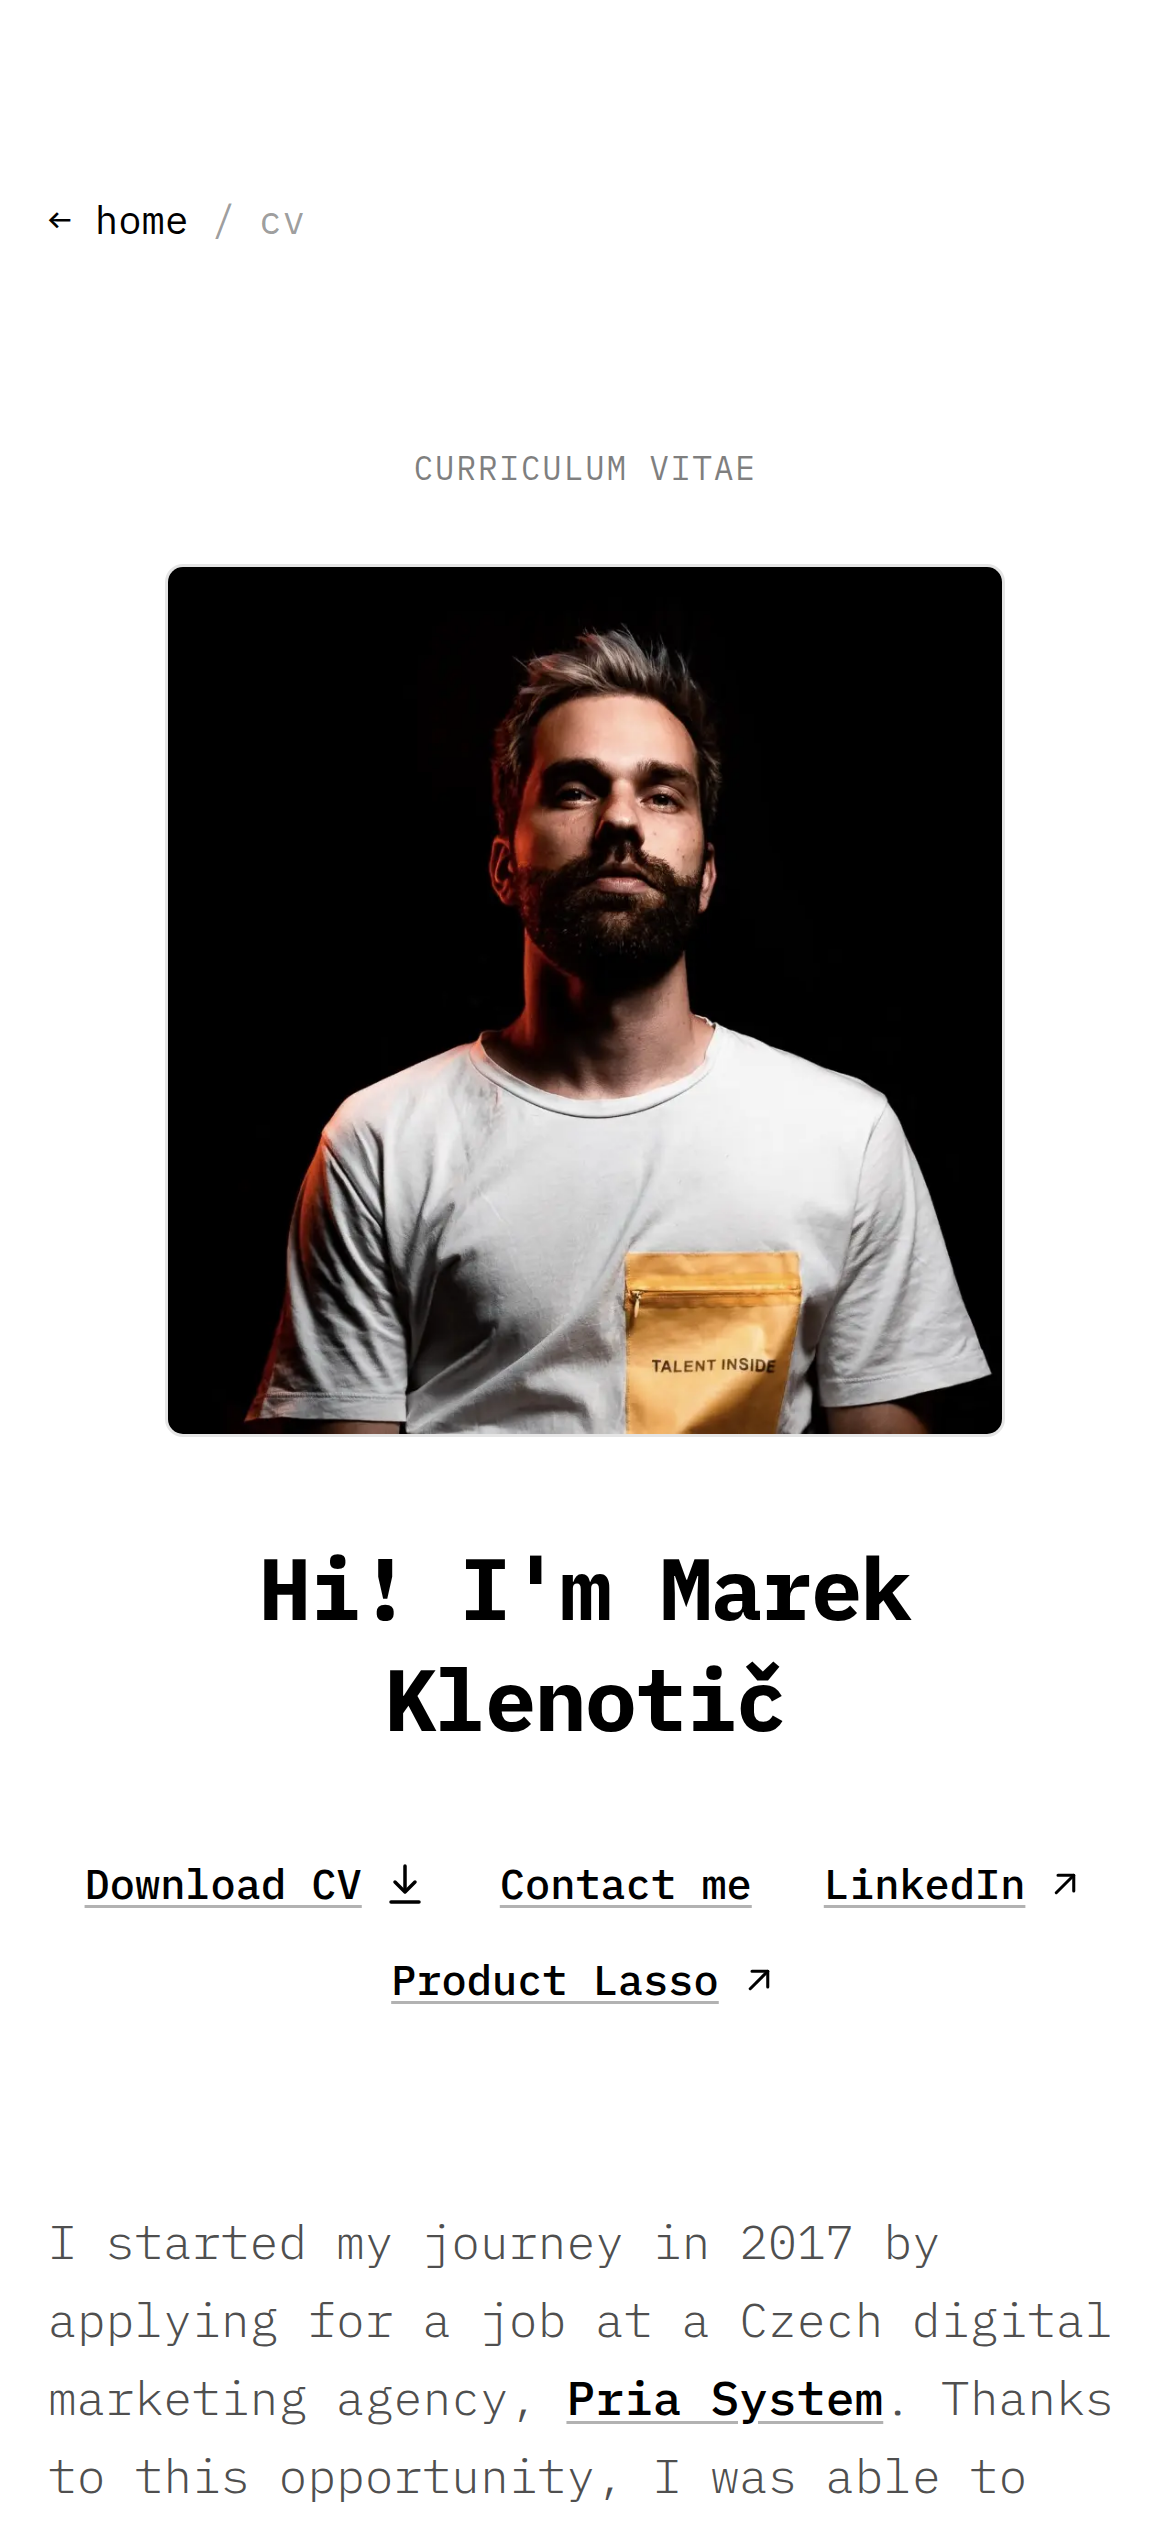
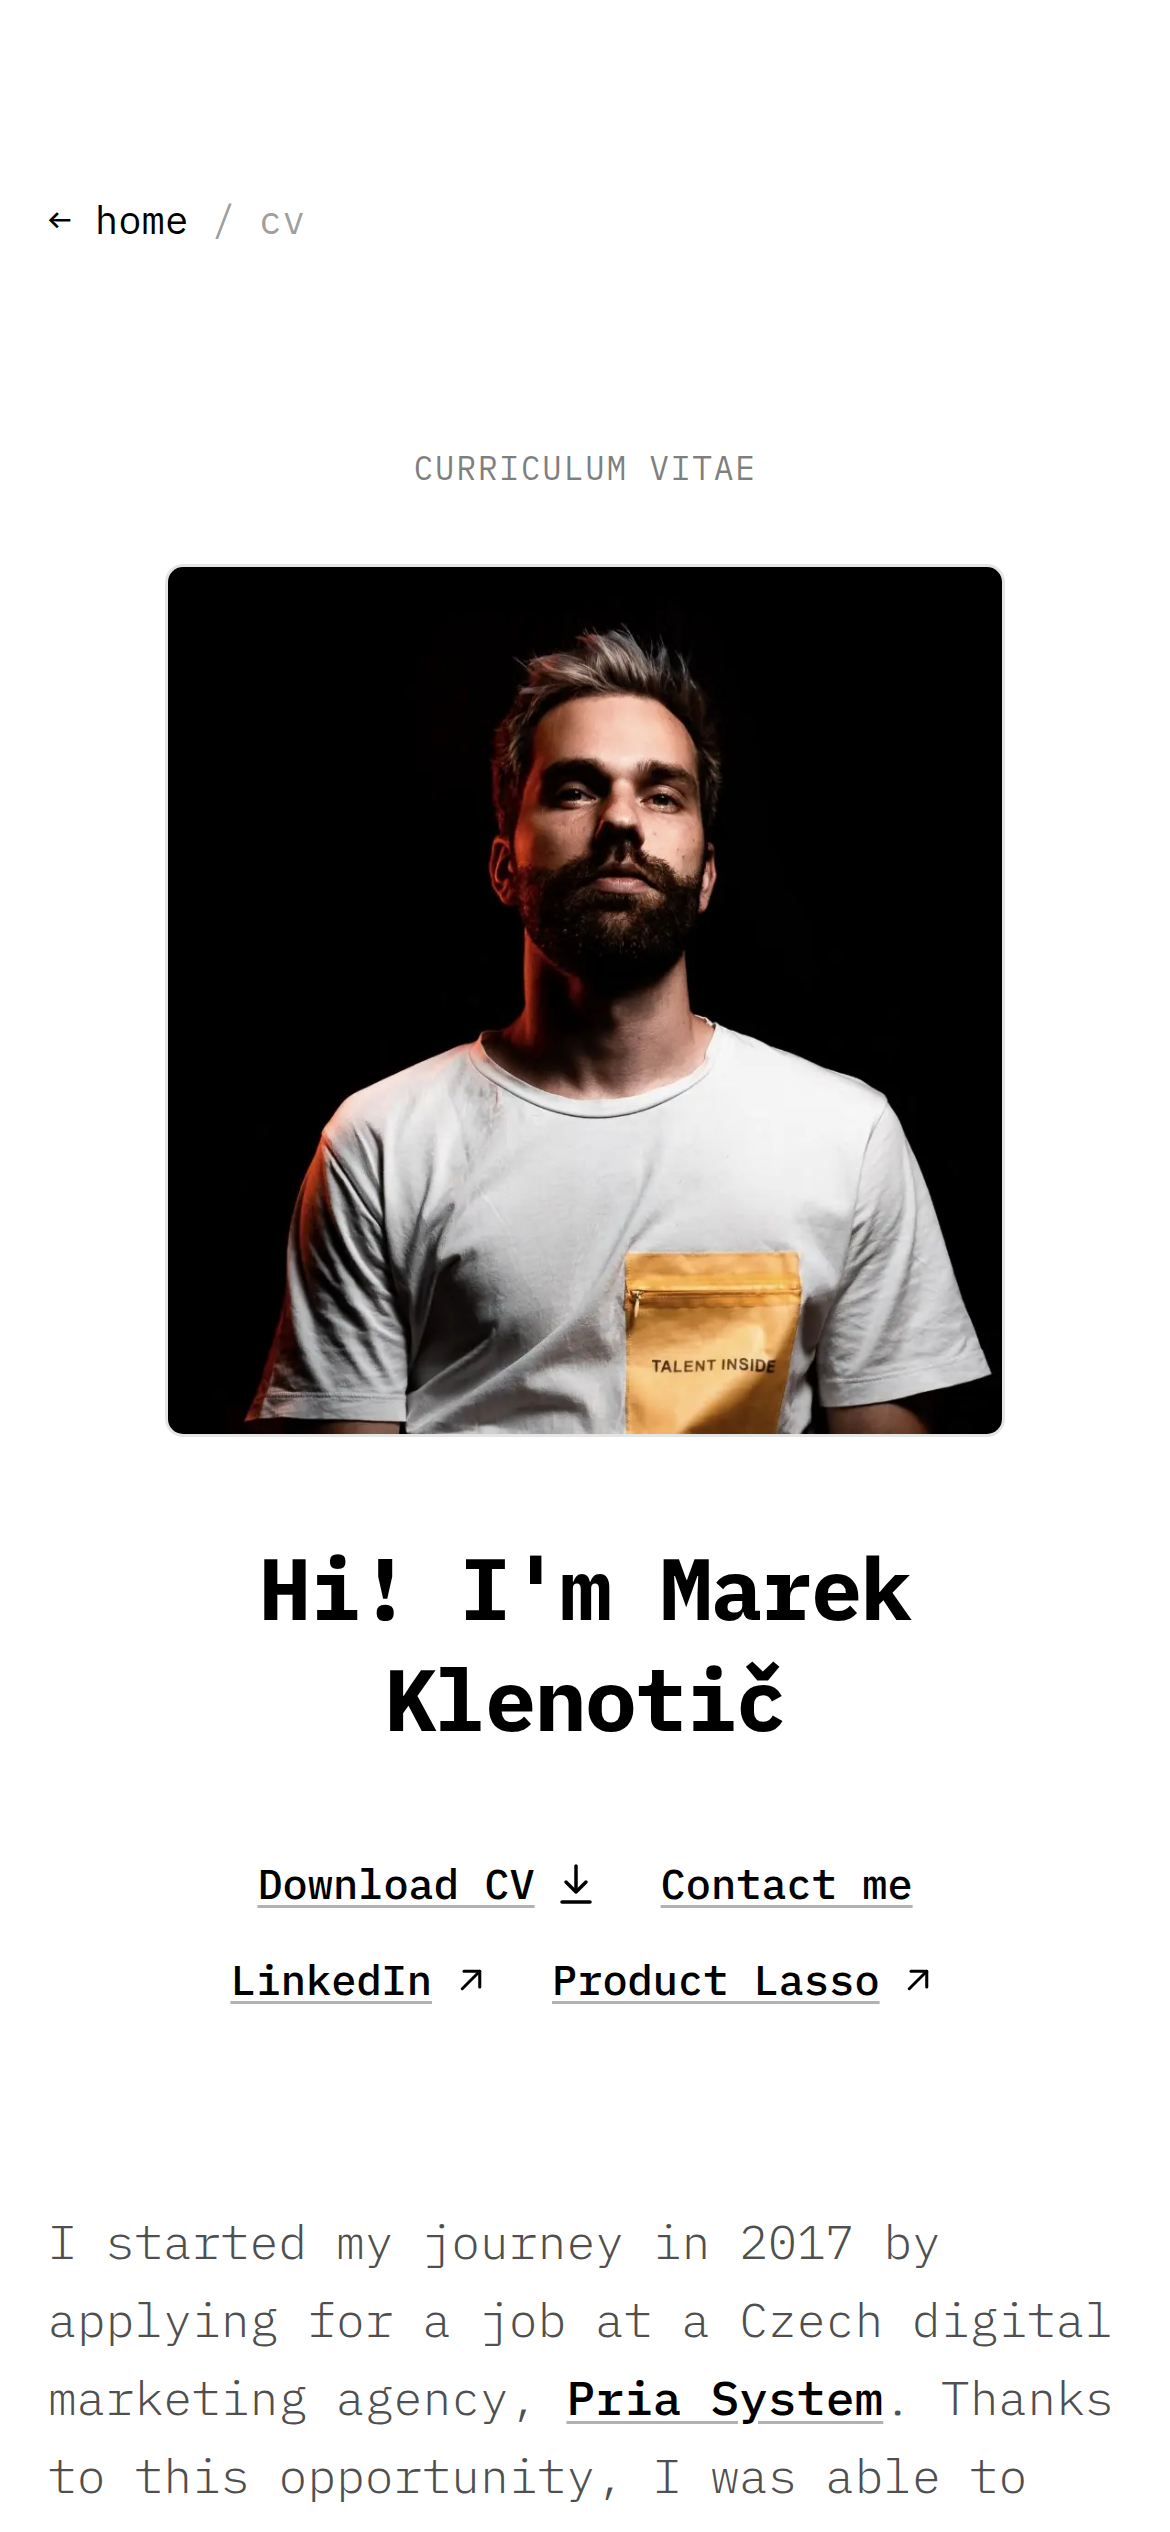
style(cv): design-critic polish pass toward >=8.5 (visual-only)
1. CTA cluster wraps as balanced 2+2 on ~390 (mobile max-w-[320px], lifts on
   sm+) — no lone second-row orphan; identical underline/blue-600 hover on all
   four links
2. Portrait + hobbies collage: plain blog figure — 1px black/10 border, ~6px
   radius, no fade masks (dropped white edge gradients + bg tint)
3. Skills quieter: replaced pill component kit with a blog-plain mono list
   (label column + comma-separated items)
4. Bio copy explicitly left-aligned inside the centered column

Content, quote and route unchanged. Refreshed docs/cv-review screenshots.

Changed region(s): [[0.0615, 0.7176, 0.8615, 0.8112]]

diff --git a/app/about/cv-klenoticmarek/CvContent.tsx b/app/about/cv-klenoticmarek/CvContent.tsx
@@ -274,8 +274,10 @@ function CtaLink({ label, href, download, external, icon }: Cta) {
 }
 
 function CtaGroup() {
+  // One wrapping cluster with even gaps. The mobile max-width forces a balanced
+  // 2 + 2 wrap (no lone orphan on ~390) and lifts on sm+ to a single row.
   return (
-    <div className="flex flex-wrap items-center justify-center gap-x-6 gap-y-3">
+    <div className="mx-auto flex max-w-[320px] flex-wrap items-center justify-center gap-x-5 gap-y-3 sm:max-w-none">
       {HERO_CTAS.map((cta) => (
         <CtaLink key={cta.label} {...cta} />
       ))}
@@ -298,7 +300,7 @@ function HeroBio() {
   };
 
   return (
-    <div className="w-full">
+    <div className="w-full text-left">
       <div className="space-y-6 font-mono text-base font-light leading-relaxed text-black/70">
         {visibleParagraphs.map((paragraph) => (
           <p key={paragraph.id}>{paragraph.body}</p>
@@ -450,28 +452,24 @@ export default function CvContent() {
             </ul>
           </Section>
 
-          {/* Certificates / Skills */}
+          {/* Certificates / Skills — kept blog-plain: a quiet mono list rather
+              than a pill component kit. */}
           <Section kicker="Add-ons and Level-ups" title="Certificates & Skills">
-            <div className="space-y-4">
+            <ul className="flex flex-col">
               {SKILL_GROUPS.map((group) => (
-                <div
+                <li
                   key={group.label}
-                  className="flex flex-wrap items-center gap-2"
+                  className="grid gap-x-4 border-t border-black/10 py-3 first:border-t-0 first:pt-0 md:grid-cols-[8rem_minmax(0,1fr)]"
                 >
-                  <span className="mr-1 w-full font-mono text-[0.6875rem] font-medium tracking-wide text-black/40 uppercase md:w-32 md:shrink-0">
+                  <span className="font-mono text-[0.6875rem] font-medium tracking-wide text-black/40 uppercase">
                     {group.label}
                   </span>
-                  {group.items.map((item) => (
-                    <span
-                      key={item}
-                      className="rounded-full border border-black/15 px-3 py-1 font-mono text-sm text-black/70"
-                    >
-                      {item}
-                    </span>
-                  ))}
-                </div>
+                  <span className="mt-1 font-mono text-base text-black md:mt-0">
+                    {group.items.join(", ")}
+                  </span>
+                </li>
               ))}
-            </div>
+            </ul>
           </Section>
 
           {/* Sidequesting */}

diff --git a/app/about/cv-klenoticmarek/HobbiesTicker.tsx b/app/about/cv-klenoticmarek/HobbiesTicker.tsx
@@ -56,22 +56,14 @@ export default function HobbiesTicker() {
   const columnA = COLLAGES.slice(0, half);
   const columnB = COLLAGES.slice(half);
 
+  // Plain blog figure treatment: 1px black/10 border, ~6px radius, no fade
+  // masks — the marquee simply clips at the frame edge.
   return (
-    <div className="relative overflow-hidden rounded-md border border-black/10 bg-black/[0.02] p-3">
-      <div className="grid h-[380px] grid-cols-2 gap-3 md:h-[460px]">
+    <div className="overflow-hidden rounded-md border border-black/10 p-2">
+      <div className="grid h-[380px] grid-cols-2 gap-2 md:h-[460px]">
         <MarqueeColumn images={columnA} dir="up" duration={40} />
         <MarqueeColumn images={columnB} dir="down" duration={46} />
       </div>
-
-      {/* Fade the scrolling tiles into the page canvas at the card edges. */}
-      <div
-        aria-hidden
-        className="pointer-events-none absolute inset-x-0 top-0 h-16 rounded-t-md bg-linear-to-b from-white to-transparent"
-      />
-      <div
-        aria-hidden
-        className="pointer-events-none absolute inset-x-0 bottom-0 h-16 rounded-b-md bg-linear-to-t from-white to-transparent"
-      />
     </div>
   );
 }
